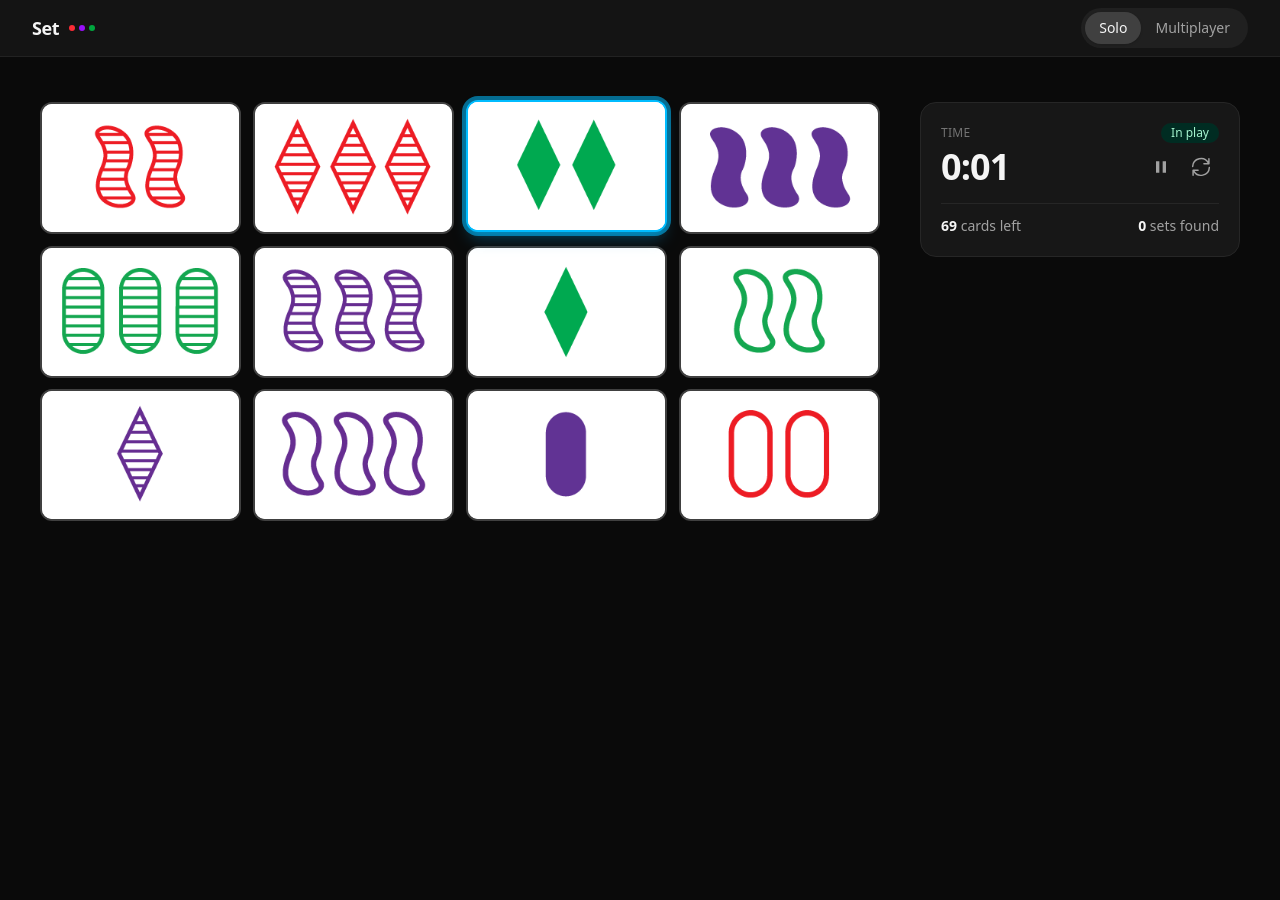
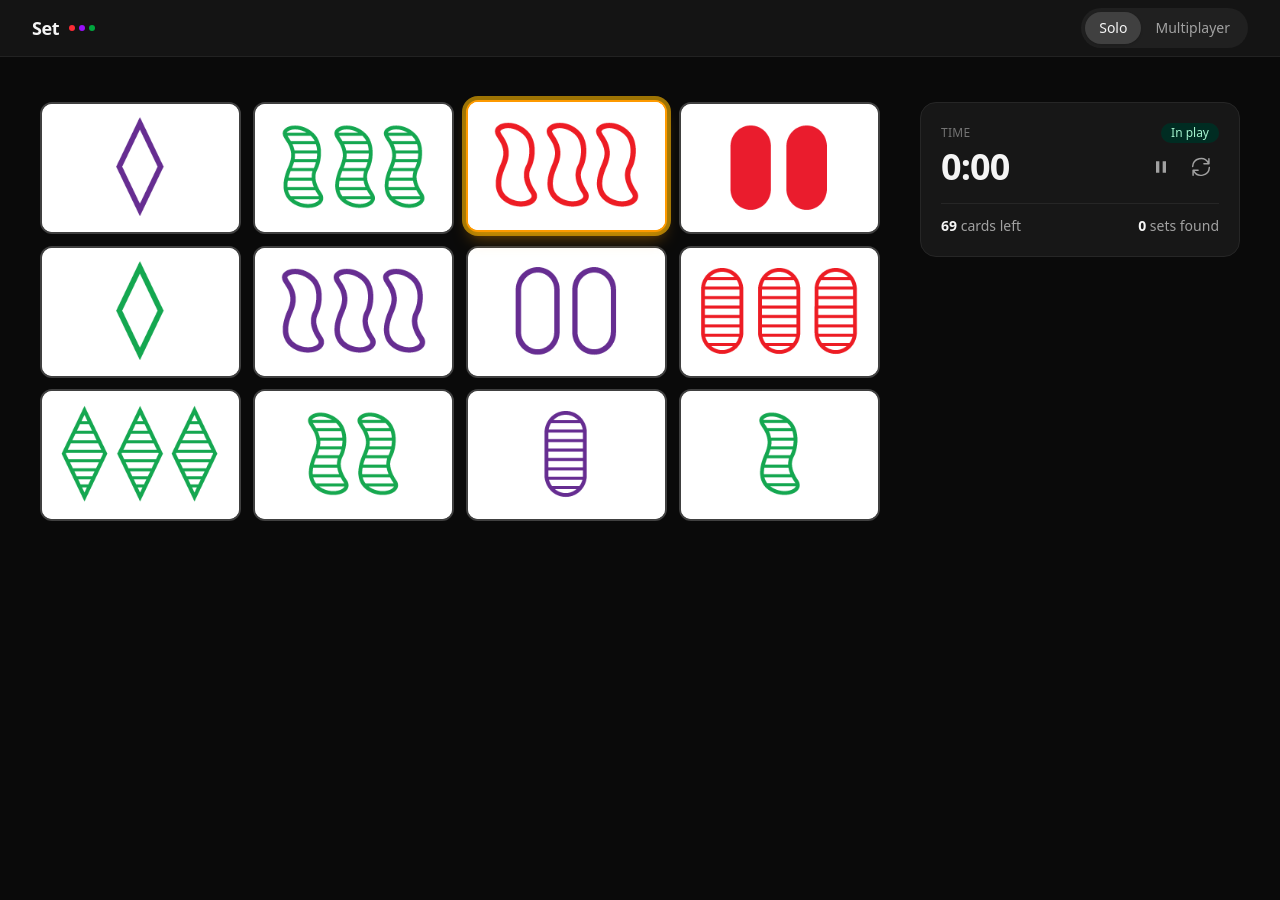
Use golden amber highlight for dark mode card selection

diff --git a/app/javascript/components/Board.tsx b/app/javascript/components/Board.tsx
@@ -75,7 +75,7 @@ const Board: React.FC<BoardProps> = ({
             : isFound
               ? 'relative z-[1] -translate-y-0.5 border-emerald-500 ring-4 ring-emerald-500/25 shadow-lg dark:ring-emerald-400/45 dark:shadow-emerald-500/25'
               : isSelected
-                ? 'relative z-[1] -translate-y-0.5 border-neutral-900 ring-4 ring-neutral-900/20 shadow-lg dark:border-sky-400 dark:ring-sky-400/55 dark:shadow-lg dark:shadow-sky-500/30'
+                ? 'relative z-[1] -translate-y-0.5 border-neutral-900 ring-4 ring-neutral-900/20 shadow-lg dark:border-amber-500 dark:ring-amber-400/60 dark:shadow-lg dark:shadow-amber-500/35'
                 : 'border-neutral-200 hover:border-neutral-300 dark:border-neutral-700 dark:hover:border-neutral-600'
 
           return (